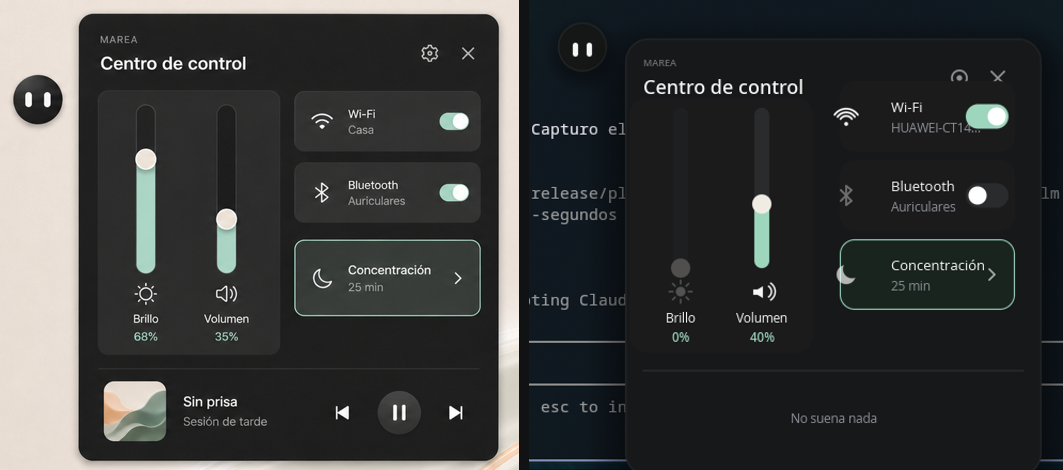
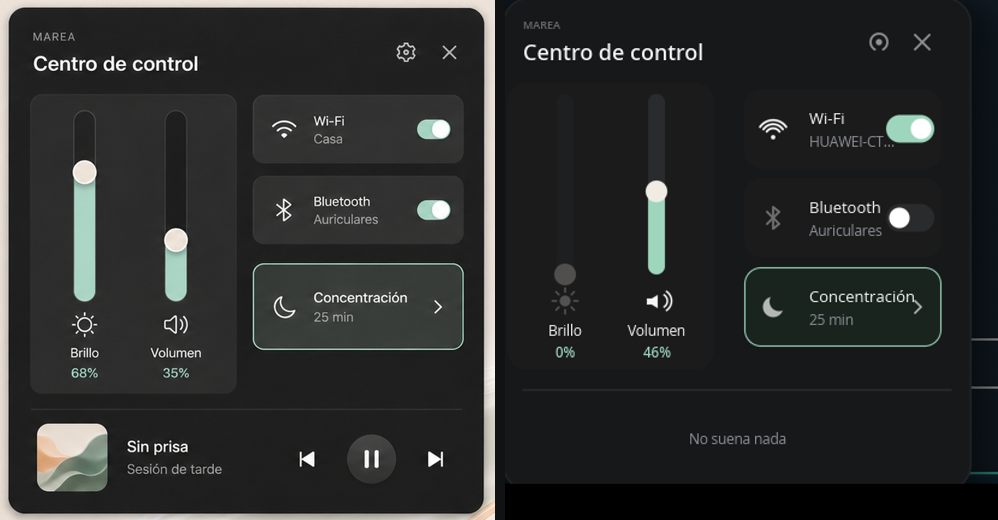
Las alturas del panel, medidas sobre la lámina
La columna de la derecha empezaba 36 px demasiado arriba y se le subía
encima al engranaje y a la cruz. Las alturas salen ahora de medir la
lámina y multiplicar por 390/593, no de mirarlas a ojo: cabecera hasta
-150, contenido desde -134, filete en +121 y música en +161.

diff --git a/ANIMACIONES.md b/ANIMACIONES.md
@@ -393,8 +393,13 @@ que la gota.
 
 A la izquierda la lámina
 (`design/concepts/2026-08-31-centro-y-apps/centro-de-control.png`), a la derecha
-lo que sale. La bolita mide 70 en la lámina y 46 aquí, así que todo va por 46/70:
-el panel es de 390 × 410.
+lo que sale. El panel mide 593 de ancho en la lámina y 390 aquí, así que las
+alturas salen de medir la lámina y multiplicar por 390/593, no de mirarlas a
+ojo: la cabecera acaba en −150 desde el centro de la tarjeta, el contenido
+empieza en −134, el filete va en +121 y la música en +161.
+
+Eso lo aprendí a la tercera: la columna de la derecha la había puesto en −165 y
+se le subía encima a la cruz de cerrar.
 
 | | |
 | --- | --- |
